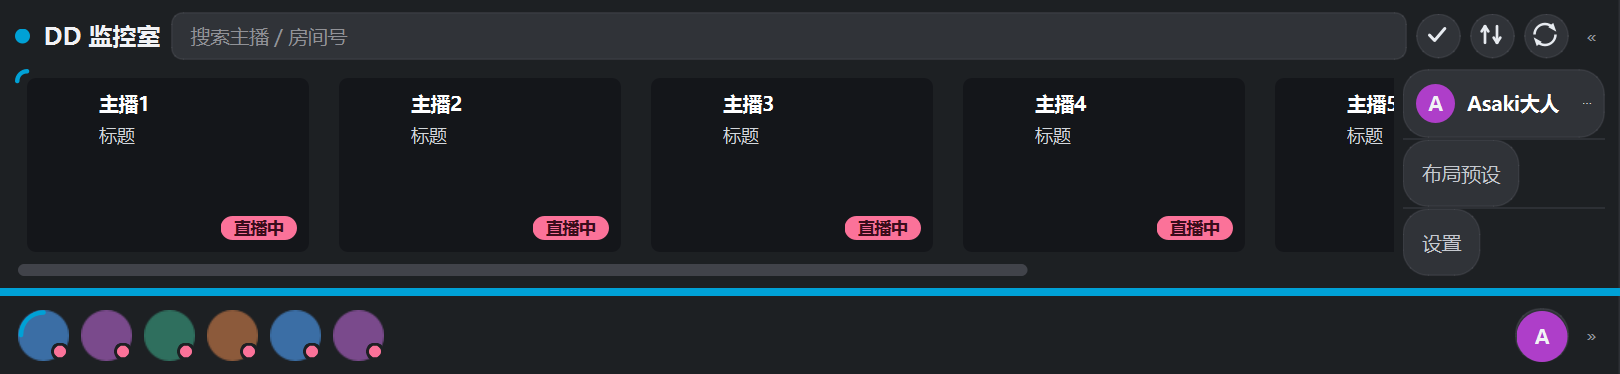
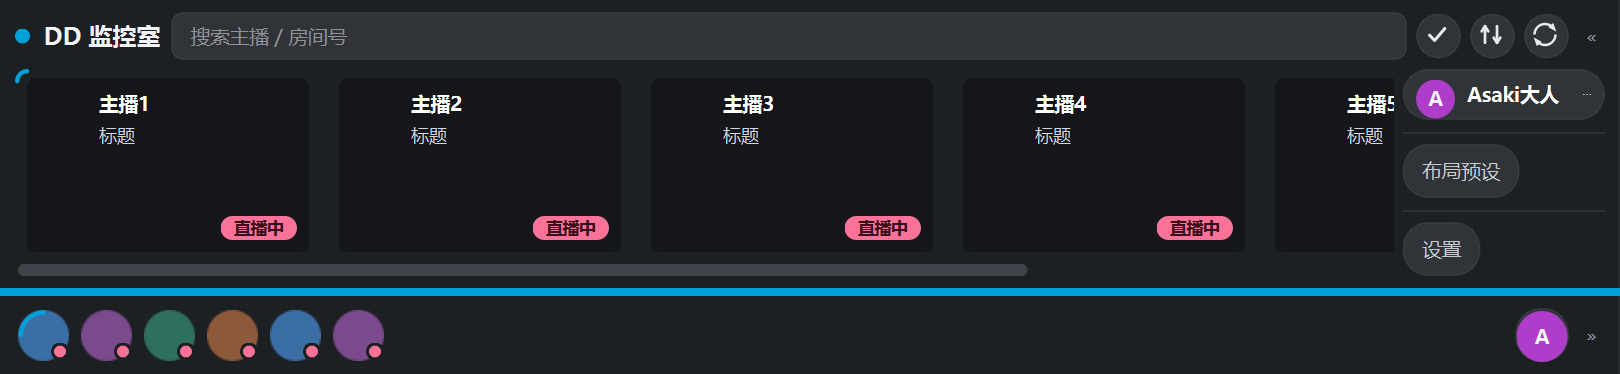
fix(portrait): 账号块用横屏按钮高度，多出来的高度均分成两条空白
用户把 A3 的形态说准了：单个按钮的高度用横屏那套，最上面/最下面的按钮分别贴着
左边关注栏卡片的上底/下底；三个按钮不够高，多出来的高度在它们之间做成**两块
一样大的空白**。

- 三个按钮都不再拉伸：账号固定 34（theme.CONTROL_HEIGHT），布局预设/设置用
  自身 sizeHint（36），宽度也各自保持原样（126 / 78 / 52）。
- 空白高度现算（`_sync_bar_gaps()`）：卡片条那一行 138 − 三个按钮 106 − 两条
  1px 线 2 = 30，四条空白各分到 7/8px，于是两条空白各 16px、里面的分割线居中
  （上 8 下 7）；这一块仍是 138 = 卡片条那一行，上下都贴沿。
- 之前用 addStretch 分空白是错的：QSpacerItem 自己是 Expanding，会把高度全吃
  掉，工具行一点都不长。改成固定高度的空白控件，尺寸由代码算。
- 回横屏时把四条空白和分割线从布局里拿走、按钮的宽度上限和 sizePolicy 还原。

自检第 12b 组改成按新形态断言：按钮高度 == 横屏那套（不再要求三段等分）、
最上面的 y=0、最下面的底 == 这一块的高、两条空白相等且 > 2、分割线在空白正中。

diff --git a/ddm/widgets.py b/ddm/widgets.py
@@ -2994,6 +2994,10 @@ class Sidebar(QFrame):
             divider.setObjectName("BarDivider")
             divider.setFixedHeight(1)
             divider.setSizePolicy(QSizePolicy.Expanding, QSizePolicy.Fixed)
+        #: 分割线两侧的空白：高度由 _sync_bar_gaps() 按卡片条那一行算出来
+        self._bar_gaps = tuple(QWidget(self._bar_right) for _ in range(4))
+        for gap in self._bar_gaps:
+            gap.setSizePolicy(QSizePolicy.Expanding, QSizePolicy.Fixed)
 
     def _bar_widgets(self) -> list:
         """竖屏时会被横栏借走的控件（横屏要按原样挂回去）。"""
@@ -3015,19 +3019,36 @@ class Sidebar(QFrame):
             self._bar_row_box.insertWidget(self._bar_row_box.count() - 1,
                                            self.account_row)
 
-    def _apply_bar_block_stretches(self) -> None:
-        """账号 / 分割线 / 工具行 = 1 : 0 : 2（工具行里面再对半分）。
+    def _sync_bar_gaps(self) -> None:
+        """算两条空白的高度。
 
-        每次挪动账号都要重设一遍：`insertWidget` / `removeWidget` 会让布局里
-        其它项的下标平移，把之前设好的比例冲掉（收起再展开过账号就只剩提示高度）。
+        卡片条那一行的高度减掉三个按钮（各用横屏那套高度）和两条 1px 分割线，
+        剩下的**均分**给两条空白 —— 这样最上面的按钮贴着上沿、最下面的贴着下沿，
+        两条空白一样大、里面的分割线居中。
+        """
+        row = NAV_ITEM_HEIGHT + NAV_ITEM_GAP + theme.SCROLLBAR_SIZE
+        buttons = (theme.CONTROL_HEIGHT + self.layout_button.sizeHint().height()
+                   + self.settings_button.sizeHint().height())
+        slack = max(0, row - buttons - 2)          # 四条空白加起来的高度
+        # 每条空白 = 线上那段 + 1px 线 + 线下那段，所以先把那 1px 加回来再对半分
+        per_gap, extra = divmod(slack + 2, 2)
+        blank, blank_extra = divmod(max(0, per_gap - 1), 2)
+        for index, gap in enumerate(self._bar_gaps):
+            # 每条空白里「线上 / 线下」两段：先按对半分，余数给上面那段
+            height = blank + (blank_extra if index % 2 == 0 else 0)
+            if index >= 2:
+                height += extra                    # 除不尽的那 1px 给第二条空白
+            gap.setFixedHeight(height)
+
+    def _apply_bar_block_stretches(self) -> None:
+        """账号和工具行自己不占 stretch（高度全由按钮 + 空白算出来）。
+
+        每次挪动账号都要重设：`insertWidget` / `removeWidget` 会让布局里其它项
+        的下标平移。
         """
         for index in range(self._bar_right_box.count()):
             widget = self._bar_right_box.itemAt(index).widget()
-            if widget is self.account_row:
-                self._bar_right_box.setStretch(index, 1)
-            elif widget is self.tool_row:
-                self._bar_right_box.setStretch(index, 2)
-            else:
+            if widget is self.account_row or widget is self.tool_row:
                 self._bar_right_box.setStretch(index, 0)
 
     def _bar_icons(self) -> tuple:
@@ -3106,22 +3127,29 @@ class Sidebar(QFrame):
             self.scroll.setParent(self._bar_row2)
             self._bar_row2_box.addWidget(self.scroll, 1)
             self._bar_row2_box.addWidget(self._bar_right)
-            # 右边那一块：账号 / 分割线 / 工具行，各占三分之一的高度
+            # 右边那一块：账号 / 空白 / 分割线 / 空白 / 工具行。
+            # 三个按钮都用横屏那套自然高度，两条空白（含中间的 1px 线）一样高，
+            # 最上面、最下面的按钮正好贴着卡片条那一行的上下沿。
             self._place_account(True)
-            self._bar_right_box.insertWidget(1, self._bar_divider_label)
-            self._bar_right_box.insertWidget(2, self.tool_row)
+            self._bar_right_box.insertWidget(1, self._bar_gaps[0])
+            self._bar_right_box.insertWidget(2, self._bar_divider_label)
+            self._bar_right_box.insertWidget(3, self._bar_gaps[1])
+            self._bar_right_box.insertWidget(4, self.tool_row)
             self._apply_bar_block_stretches()
-            # 布局预设 / 设置竖排，中间也来一条分割线
             tool_box = self.tool_row.layout()
             tool_box.setDirection(QBoxLayout.TopToBottom)
             tool_box.setSpacing(0)
-            tool_box.insertWidget(1, self._bar_divider_tool)
-            tool_box.setStretch(0, 1)
-            tool_box.setStretch(2, 1)
-            # 两个按钮只按高度撑满；宽度保持各自本来的大小（用户要求：别调
-            # 单个按钮的宽度）—— 竖排布局默认会把它们拉满整块，这里给个上限
+            tool_box.insertWidget(1, self._bar_gaps[2])
+            tool_box.insertWidget(2, self._bar_divider_tool)
+            tool_box.insertWidget(3, self._bar_gaps[3])
+            # 两个按钮自己不吃 stretch（横屏时布局预设是 stretch 1）
+            tool_box.setStretch(0, 0)
+            tool_box.setStretch(4, 0)
+            self._sync_bar_gaps()
+            # 宽度保持各自本来的大小（用户要求：别调单个按钮的宽度）；高度也
+            # 不拉伸，用横屏那套自然高度
             for button in (self.layout_button, self.settings_button):
-                button.setSizePolicy(QSizePolicy.Preferred, QSizePolicy.Expanding)
+                button.setSizePolicy(QSizePolicy.Preferred, QSizePolicy.Fixed)
                 button.setMaximumWidth(button.sizeHint().width())
 
             self._layout.insertWidget(index + 1 if index >= 0 else 1, self._bar_row)
@@ -3142,12 +3170,16 @@ class Sidebar(QFrame):
         for widget in self._column_order:
             self._detach_from_rows(widget)
             self._layout.addWidget(widget)
-        # 布局预设 / 设置回到横排一行，分割线从工具行里拿出来
+        # 布局预设 / 设置回到横排一行，把竖排时插进去的空白和分割线拿出来
         tool_box = self.tool_row.layout()
         tool_box.removeWidget(self._bar_divider_tool)
+        for gap in self._bar_gaps[2:]:
+            tool_box.removeWidget(gap)
         tool_box.setDirection(QBoxLayout.LeftToRight)
         tool_box.setStretch(0, 1)
         tool_box.setSpacing(6)
+        for gap in self._bar_gaps[:2]:
+            self._bar_right_box.removeWidget(gap)
         for button, policy in self._tool_button_policies.items():
             button.setSizePolicy(policy)
             button.setMaximumWidth(16_777_215)   # 竖屏时按自身宽度限过
@@ -3169,14 +3201,14 @@ class Sidebar(QFrame):
         """账号条的形状跟着「横屏/竖屏 + 收起/展开」走。
 
         竖屏收起时横栏只有 36px 高，账号头像要按头排头像的尺寸（34）挤进去；
-        竖屏展开时它在右侧那一块里，要撑满上面三分之一的高度（`set_compact`
-        会把高度定成 34，所以这里要再放开）；其它情况沿用原来的样子。
+        竖屏展开时它在右侧那一块里，高度就用横屏那套（34），多出来的高度留给
+        两条空白；其它情况沿用原来的样子。
         """
         if self.side == "top" and not self.collapsed:
             self.account_row.set_compact(False)
-            self.account_row.setMinimumHeight(0)
-            self.account_row.setMaximumHeight(16_777_215)
-            self.account_row.setSizePolicy(QSizePolicy.Expanding, QSizePolicy.Expanding)
+            # 高度用横屏那套（34），多出来的高度留给这一块里的两条空白
+            self.account_row.setFixedHeight(theme.CONTROL_HEIGHT)
+            self.account_row.setSizePolicy(QSizePolicy.Preferred, QSizePolicy.Fixed)
         elif self.side == "top":
             self.account_row.set_compact(True, avatar=RoomStrip.AVATAR, margin=1)
         else:

diff --git a/dev/selfcheck_portrait.py b/dev/selfcheck_portrait.py
@@ -613,26 +613,43 @@ def part_strip_interaction(app) -> None:
     heights = [account.height(), sidebar.layout_button.height(),
                sidebar.settings_button.height()]
     dividers = [sidebar._bar_divider_label, sidebar._bar_divider_tool]
+    # 两条「空白」= 账号下沿到工具行上沿、布局预设下沿到设置上沿（里面各含 1px 线）
+    gap_label = sidebar.tool_row.y() - (account.y() + account.height())
+    gap_tool = sidebar.settings_button.y() - (sidebar.layout_button.y()
+                                              + sidebar.layout_button.height())
     print(f"  这一块：高={block.height()}（卡片条 {sidebar.scroll.height()}）"
-          f" 三段高度={heights} 分割线={[d.height() for d in dividers]} "
-          f"宽={sorted({account.width(), sidebar.layout_button.width(), sidebar.settings_button.width()})}")
+          f" 三段高度={heights}（自身 {[account.sizeHint().height(), sidebar.layout_button.sizeHint().height(), sidebar.settings_button.sizeHint().height()]}）"
+          f" 两条空白={gap_label}/{gap_tool} 分割线={[d.height() for d in dividers]}")
     assert abs(block.height() - sidebar.scroll.height()) <= 2, \
         f"这一块要和卡片条同高（不占别处）：块 {block.height()} vs 卡片条 {sidebar.scroll.height()}"
     assert block.y() >= sidebar.scroll.y() and \
         block.y() + block.height() <= sidebar.scroll.y() + sidebar.scroll.height() + 2, \
         "这一块不能超到卡片条那一行外面（比如爬上去挤搜索框）"
-    assert max(heights) - min(heights) <= 2, f"三个按钮要等分这一块的高度，实际 {heights}"
-    assert sum(heights) + sum(d.height() for d in dividers) == block.height(), \
-        "三个按钮 + 两条分割线要正好分完这一块的高度"
-    assert all(divider.isVisible() and divider.height() == 1 for divider in dividers), \
-        "三个按钮之间要有 1px 分割线"
-    assert account.y() + account.height() + 1 == sidebar.tool_row.y(), \
-        "账号和工具行之间只隔那条分割线"
-    assert sidebar.layout_button.y() + sidebar.layout_button.height() + 1 \
-        == sidebar.settings_button.y(), "布局预设和设置之间只隔那条分割线"
-    # 这一块的按钮只按高度排：宽度不被动过（用户要求），彼此只隔一条分割线
-    assert sidebar._bar_right_box.spacing() == 0, "账号和工具行之间不该留缝"
-    assert sidebar.tool_row.layout().spacing() == 0, "布局预设和设置之间不该留缝"
+    # 用户要求：单个按钮高度用横屏那套（不去拉伸），最上面/最下面的按钮
+    # 正好贴着卡片条那一行的上下沿，多出来的高度做成两条一样大的空白
+    assert account.height() == theme.CONTROL_HEIGHT, \
+        f"账号高度该是横屏那套，实际 {account.height()} / 期望 {theme.CONTROL_HEIGHT}"
+    for name, button in (("布局预设", sidebar.layout_button), ("设置", sidebar.settings_button)):
+        assert button.height() == button.sizeHint().height(), \
+            f"{name}高度该是横屏那套，实际 {button.height()} / 自身 {button.sizeHint().height()}"
+    assert account.y() == 0, f"最上面的按钮要贴着上沿，实际 y={account.y()}"
+    bottom = sidebar.tool_row.y() + sidebar.settings_button.y() \
+        + sidebar.settings_button.height()
+    assert bottom == block.height(), \
+        f"最下面的按钮要贴着下沿：底部 {bottom} vs 这一块 {block.height()}"
+    assert gap_label > 2 and gap_tool > 2, f"两条空白要真的留出来：{gap_label}/{gap_tool}"
+    assert abs(gap_label - gap_tool) <= 1, \
+        f"两条空白要一样大（均匀），实际 {gap_label}/{gap_tool}"
+    for name, divider, above, below in (
+            ("账号下", dividers[0], account.y() + account.height(), sidebar.tool_row.y()),
+            ("设置上", dividers[1], sidebar.layout_button.y() + sidebar.layout_button.height(),
+             sidebar.settings_button.y())):
+        upper = divider.y() - above
+        lower = below - (divider.y() + divider.height())
+        print(f"    {name}的分割线：上面留 {upper}px、下面留 {lower}px")
+        assert divider.isVisible() and divider.height() == 1, "分割线在、且只有 1px"
+        assert abs(upper - lower) <= 1, f"{name}的分割线要在空白正中间"
+    # 这一块的按钮宽度不被动过（用户要求）
     print(f"  宽度：账号={account.width()} 布局预设={sidebar.layout_button.width()}"
           f"（自身 {sidebar.layout_button.sizeHint().width()}）"
           f" 设置={sidebar.settings_button.width()}"
